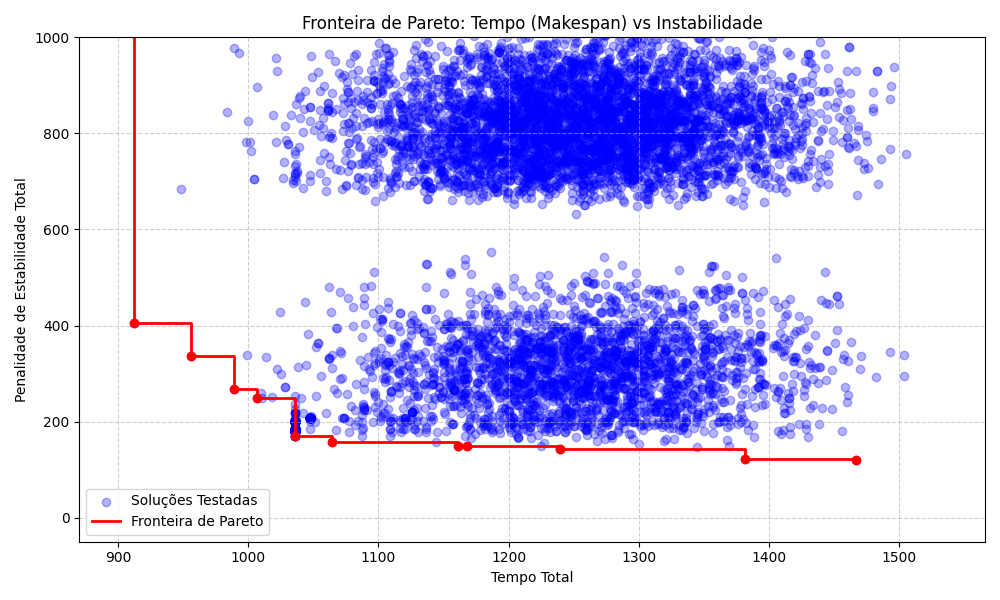
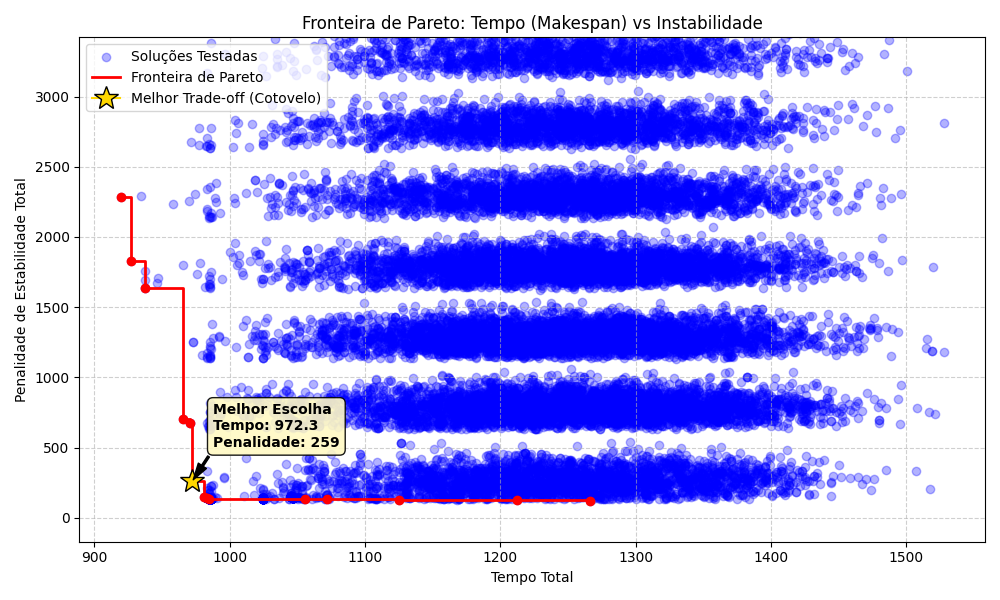
atualizando gráfico fronteira de pareto -- próximo ao ideal

diff --git a/app/visualizer.py b/app/visualizer.py
@@ -73,13 +73,37 @@ def fronteira_de_pareto(makespans, instabilidades, filename="pareto_argo.png"):
     pontos = sorted(list(zip(makespans, instabilidades)))
     pareto_front = []
     min_instabilidade = float("inf")
+    
     for m, i in pontos:
         if i < min_instabilidade:
             pareto_front.append((m, i))
             min_instabilidade = i
 
+    if not pareto_front:
+        return
+
     pareto_makespans = [p[0] for p in pareto_front]
     pareto_instabilidades = [p[1] for p in pareto_front]
+
+    # --- 1. CÁLCULO DO MELHOR PONTO (PONTO DE COTOVELO) ---
+    min_m, max_m = min(pareto_makespans), max(pareto_makespans)
+    min_i, max_i = min(pareto_instabilidades), max(pareto_instabilidades)
+
+    melhor_distancia = float("inf")
+    melhor_ponto = pareto_front[0]
+
+    for m, i in pareto_front:
+        # Normaliza os valores (de 0.0 a 1.0) para que a escala não distorça o cálculo
+        norm_m = (m - min_m) / (max_m - min_m) if max_m != min_m else 0
+        norm_i = (i - min_i) / (max_i - min_i) if max_i != min_i else 0
+        
+        # Distância Euclidiana até a origem ideal (0, 0)
+        distancia = (norm_m ** 2 + norm_i ** 2) ** 0.5
+        
+        if distancia < melhor_distancia:
+            melhor_distancia = distancia
+            melhor_ponto = (m, i)
+    # ------------------------------------------------------
 
     plt.figure(figsize=(10, 6))
 
@@ -97,11 +121,33 @@ def fronteira_de_pareto(makespans, instabilidades, filename="pareto_argo.png"):
     )
     plt.plot(pareto_makespans, pareto_instabilidades, "ro")
 
+    # --- 2. DESENHO DO MARCADOR DO MELHOR PONTO ---
+    plt.plot(
+        melhor_ponto[0], melhor_ponto[1], 
+        marker="*", color="gold", markersize=18, 
+        markeredgecolor="black", zorder=5, label="Melhor Trade-off (Cotovelo)"
+    )
+
+    # Caixa de texto com uma seta apontando para a estrela
+    plt.annotate(
+        f'Melhor Escolha\nTempo: {melhor_ponto[0]:.1f}\nPenalidade: {melhor_ponto[1]:.0f}',
+        xy=(melhor_ponto[0], melhor_ponto[1]),
+        xytext=(15, 25), # Move o texto um pouco para a direita e para cima
+        textcoords="offset points",
+        arrowprops=dict(facecolor='black', shrink=0.05, width=1.5, headwidth=7),
+        fontsize=10,
+        fontweight='bold',
+        bbox=dict(boxstyle="round,pad=0.4", fc="#fff9c4", ec="black", alpha=0.9),
+        zorder=10
+    )
+    # ----------------------------------------------
+
     plt.title("Fronteira de Pareto: Tempo (Makespan) vs Instabilidade")
     plt.xlabel("Tempo Total")
     plt.ylabel("Penalidade de Estabilidade Total")
     plt.grid(True, linestyle="--", alpha=0.6)
     plt.legend()
+    
     pareto_validos = [p for p in pareto_instabilidades if p < 50000]
 
     if pareto_validos:

diff --git a/outputs/passo_a_passo/passo_a_passo.md b/outputs/passo_a_passo/passo_a_passo.md
@@ -1,52 +1,52 @@
 <html><head><meta charset='utf-8'><style>body { font-family: 'Segoe UI', Tahoma, Geneva, Verdana, sans-serif; line-height: 1.6; color: #333; padding: 40px; }h1, h2 { border-bottom: 2px solid #1a237e; padding-bottom: 10px; }table { margin-top: 20px; }.page-break { page-break-before: always; }</style></head><body><h1 style='text-align: center; color: #1a237e;'>Relatório Passo a Passo: Operação Argo</h1><hr/><h2 style='color: #0d47a1;'>1. Log de Movimentações</h2>
-<div style='background: #f5f5f5; padding: 8px; margin: 5px 0; border-radius: 4px; color:#111;'><b>[0001.0] 🏗 Guindaste (Passo 01)</b><br/>Moveu container <span style='color: #b81466;'>Rosa</span> de Navio <b style='font-size:1.1em; color:#111; background:#e0e0e0; padding:2px 6px; border-radius:4px;'>(Y:1 X:1 Z:1)</b> para Píer <b style='font-size:1.1em; color:#111; background:#e0e0e0; padding:2px 6px; border-radius:4px;'>(Y:1 X:2 Z:1)</b> | <b style='color: green;'>📍 Destino: Sala A18</b></div>
-<div style='background: #f5f5f5; padding: 8px; margin: 5px 0; border-radius: 4px; color:#111;'><b>[0001.1] 🏗 Guindaste (Passo 02)</b><br/>Moveu container <span style='color: #b81466;'>Rosa</span> de Navio <b style='font-size:1.1em; color:#111; background:#e0e0e0; padding:2px 6px; border-radius:4px;'>(Y:2 X:2 Z:3)</b> para Píer <b style='font-size:1.1em; color:#111; background:#e0e0e0; padding:2px 6px; border-radius:4px;'>(Y:2 X:2 Z:1)</b> | <b style='color: green;'>📍 Destino: Ocean</b></div>
-<div style='border-left: 4px solid #2196F3; padding-left: 10px; margin-bottom: 10px;'><b>[0001.1] 🚛 Carrerista 1</b><br/>Saída com 2 entrega(s) para: <i>Sala A18, Ocean</i></div>
-<div style='color: #111; font-size: 0.95em;'>&nbsp;&nbsp;↳ [0001.1] Container removido do Píer: <b style='color: #111;'>(Y:1 X:2, Z:1)</b></div>
-<div style='color: #111; font-size: 0.95em;'>&nbsp;&nbsp;↳ [0001.1] Container removido do Píer: <b style='color: #111;'>(Y:2 X:2, Z:1)</b></div>
-<div style='background: #f5f5f5; padding: 8px; margin: 5px 0; border-radius: 4px; color:#111;'><b>[0003.2] 🏗 Guindaste (Passo 03)</b><br/>Moveu container <span style='color: #b8b814;'>Amarelo</span> de Navio <b style='font-size:1.1em; color:#111; background:#e0e0e0; padding:2px 6px; border-radius:4px;'>(Y:1 X:3 Z:2)</b> para Píer <b style='font-size:1.1em; color:#111; background:#e0e0e0; padding:2px 6px; border-radius:4px;'>(Y:2 X:2 Z:1)</b> | <b style='color: green;'>📍 Destino: Sala A4</b></div>
-<div style='background: #f5f5f5; padding: 8px; margin: 5px 0; border-radius: 4px; color:#111;'><b>[0004.3] 🏗 Guindaste (Passo 04)</b><br/>Moveu container <span style='color: #b8b814;'>Amarelo</span> de Navio <b style='font-size:1.1em; color:#111; background:#e0e0e0; padding:2px 6px; border-radius:4px;'>(Y:2 X:3 Z:3)</b> para Píer <b style='font-size:1.1em; color:#111; background:#e0e0e0; padding:2px 6px; border-radius:4px;'>(Y:2 X:2 Z:2)</b> | <b style='color: green;'>📍 Destino: Hub</b></div>
-<div style='border-left: 4px solid #2196F3; padding-left: 10px; margin-bottom: 10px;'><b>[0004.3] 🚛 Carrerista 2</b><br/>Saída com 2 entrega(s) para: <i>Sala A4, Hub</i></div>
-<div style='color: #111; font-size: 0.95em;'>&nbsp;&nbsp;↳ [0004.3] Container removido do Píer: <b style='color: #111;'>(Y:2 X:2, Z:1)</b></div>
-<div style='color: #111; font-size: 0.95em;'>&nbsp;&nbsp;↳ [0004.3] Container removido do Píer: <b style='color: #111;'>(Y:2 X:2, Z:2)</b></div>
-<div style='background: #f5f5f5; padding: 8px; margin: 5px 0; border-radius: 4px; color:#111;'><b>[0006.3] 🏗 Guindaste (Passo 05)</b><br/>Moveu container <span style='color: #b81466;'>Rosa</span> de Navio <b style='font-size:1.1em; color:#111; background:#e0e0e0; padding:2px 6px; border-radius:4px;'>(Y:2 X:2 Z:2)</b> para Píer <b style='font-size:1.1em; color:#111; background:#e0e0e0; padding:2px 6px; border-radius:4px;'>(Y:1 X:1 Z:1)</b> | <b style='color: green;'>📍 Destino: FemtonLab</b></div>
-<div style='background: #f5f5f5; padding: 8px; margin: 5px 0; border-radius: 4px; color:#111;'><b>[0007.5] 🏗 Guindaste (Passo 06)</b><br/>Moveu container <span style='color: #b81466;'>Rosa</span> de Navio <b style='font-size:1.1em; color:#111; background:#e0e0e0; padding:2px 6px; border-radius:4px;'>(Y:1 X:3 Z:1)</b> para Píer <b style='font-size:1.1em; color:#111; background:#e0e0e0; padding:2px 6px; border-radius:4px;'>(Y:1 X:2 Z:1)</b> | <b style='color: green;'>📍 Destino: Sala C18</b></div>
-<div style='border-left: 4px solid #2196F3; padding-left: 10px; margin-bottom: 10px;'><b>[0233.8] 🚛 Carrerista 3</b><br/>Saída com 2 entrega(s) para: <i>FemtonLab, Sala C18</i></div>
-<div style='background: #f5f5f5; padding: 8px; margin: 5px 0; border-radius: 4px; color:#111;'><b>[0009.6] 🏗 Guindaste (Passo 07)</b><br/>Moveu container <span style='color: #b81466;'>Rosa</span> de Navio <b style='font-size:1.1em; color:#111; background:#e0e0e0; padding:2px 6px; border-radius:4px;'>(Y:2 X:2 Z:1)</b> para Píer <b style='font-size:1.1em; color:#111; background:#e0e0e0; padding:2px 6px; border-radius:4px;'>(Y:1 X:1 Z:2)</b> | <b style='color: green;'>📍 Destino: Urutau</b></div>
-<div style='color: #111; font-size: 0.95em;'>&nbsp;&nbsp;↳ [0233.8] Container removido do Píer: <b style='color: #111;'>(Y:1 X:1, Z:1)</b></div>
-<div style='color: #111; font-size: 0.95em;'>&nbsp;&nbsp;↳ [0233.8] Container removido do Píer: <b style='color: #111;'>(Y:1 X:2, Z:1)</b></div>
-<div style='background: #f5f5f5; padding: 8px; margin: 5px 0; border-radius: 4px; color:#111;'><b>[0233.8] 🏗 Guindaste (Passo 08)</b><br/>Moveu container <span style='color: #b8b814;'>Amarelo</span> de Navio <b style='font-size:1.1em; color:#111; background:#e0e0e0; padding:2px 6px; border-radius:4px;'>(Y:3 X:2 Z:2)</b> para Píer <b style='font-size:1.1em; color:#111; background:#e0e0e0; padding:2px 6px; border-radius:4px;'>(Y:1 X:1 Z:1)</b> | <b style='color: green;'>📍 Destino: Urutau</b></div>
-<div style='border-left: 4px solid #2196F3; padding-left: 10px; margin-bottom: 10px;'><b>[0392.6] 🚛 Carrerista 1</b><br/>Saída com 2 entrega(s) para: <i>Urutau, Urutau</i></div>
-<div style='background: #f5f5f5; padding: 8px; margin: 5px 0; border-radius: 4px; color:#111;'><b>[0236.0] 🏗 Guindaste (Passo 09)</b><br/>Moveu container <span style='color: #b8b814;'>Amarelo</span> de Navio <b style='font-size:1.1em; color:#111; background:#e0e0e0; padding:2px 6px; border-radius:4px;'>(Y:3 X:1 Z:2)</b> para Píer <b style='font-size:1.1em; color:#111; background:#e0e0e0; padding:2px 6px; border-radius:4px;'>(Y:2 X:2 Z:1)</b> | <b style='color: green;'>📍 Destino: Quadra</b></div>
-<div style='background: #f5f5f5; padding: 8px; margin: 5px 0; border-radius: 4px; color:#111;'><b>[0238.1] 🏗 Guindaste (Passo 10)</b><br/>Moveu container <span style='color: #b8b814;'>Amarelo</span> de Navio <b style='font-size:1.1em; color:#111; background:#e0e0e0; padding:2px 6px; border-radius:4px;'>(Y:3 X:3 Z:3)</b> para Píer <b style='font-size:1.1em; color:#111; background:#e0e0e0; padding:2px 6px; border-radius:4px;'>(Y:2 X:2 Z:2)</b> | <b style='color: green;'>📍 Destino: Ocean</b></div>
-<div style='border-left: 4px solid #2196F3; padding-left: 10px; margin-bottom: 10px;'><b>[0604.6] 🚛 Carrerista 2</b><br/>Saída com 2 entrega(s) para: <i>Quadra, Ocean</i></div>
-<div style='color: #111; font-size: 0.95em;'>&nbsp;&nbsp;↳ [0392.6] Container removido do Píer: <b style='color: #111;'>(Y:1 X:1, Z:2)</b></div>
-<div style='color: #111; font-size: 0.95em;'>&nbsp;&nbsp;↳ [0392.6] Container removido do Píer: <b style='color: #111;'>(Y:1 X:1, Z:1)</b></div>
-<div style='color: #111; font-size: 0.95em;'>&nbsp;&nbsp;↳ [0604.6] Container removido do Píer: <b style='color: #111;'>(Y:2 X:2, Z:1)</b></div>
-<div style='color: #111; font-size: 0.95em;'>&nbsp;&nbsp;↳ [0604.6] Container removido do Píer: <b style='color: #111;'>(Y:2 X:2, Z:2)</b></div>
-<div style='background: #f5f5f5; padding: 8px; margin: 5px 0; border-radius: 4px; color:#111;'><b>[0604.6] 🏗 Guindaste (Passo 11)</b><br/>Moveu container <span style='color: #b8b814;'>Amarelo</span> de Navio <b style='font-size:1.1em; color:#111; background:#e0e0e0; padding:2px 6px; border-radius:4px;'>(Y:2 X:4 Z:2)</b> para Píer <b style='font-size:1.1em; color:#111; background:#e0e0e0; padding:2px 6px; border-radius:4px;'>(Y:2 X:2 Z:1)</b> | <b style='color: green;'>📍 Destino: Baja</b></div>
-<div style='background: #f5f5f5; padding: 8px; margin: 5px 0; border-radius: 4px; color:#111;'><b>[0605.7] 🏗 Guindaste (Passo 12)</b><br/>Moveu container <span style='color: #b81466;'>Rosa</span> de Navio <b style='font-size:1.1em; color:#111; background:#e0e0e0; padding:2px 6px; border-radius:4px;'>(Y:3 X:2 Z:1)</b> para Píer <b style='font-size:1.1em; color:#111; background:#e0e0e0; padding:2px 6px; border-radius:4px;'>(Y:2 X:2 Z:2)</b> | <b style='color: green;'>📍 Destino: Baja</b></div>
-<div style='border-left: 4px solid #2196F3; padding-left: 10px; margin-bottom: 10px;'><b>[0656.5] 🚛 Carrerista 3</b><br/>Saída com 2 entrega(s) para: <i>Baja, Baja</i></div>
-<div style='color: #111; font-size: 0.95em;'>&nbsp;&nbsp;↳ [0656.5] Container removido do Píer: <b style='color: #111;'>(Y:2 X:2, Z:1)</b></div>
-<div style='color: #111; font-size: 0.95em;'>&nbsp;&nbsp;↳ [0656.5] Container removido do Píer: <b style='color: #111;'>(Y:2 X:2, Z:2)</b></div>
-<div style='background: #f5f5f5; padding: 8px; margin: 5px 0; border-radius: 4px; color:#111;'><b>[0656.5] 🏗 Guindaste (Passo 13)</b><br/>Moveu container <span style='color: #b81466;'>Rosa</span> de Navio <b style='font-size:1.1em; color:#111; background:#e0e0e0; padding:2px 6px; border-radius:4px;'>(Y:3 X:1 Z:1)</b> para Píer <b style='font-size:1.1em; color:#111; background:#e0e0e0; padding:2px 6px; border-radius:4px;'>(Y:2 X:2 Z:1)</b> | <b style='color: green;'>📍 Destino: Callidus</b></div>
-<div style='background: #f5f5f5; padding: 8px; margin: 5px 0; border-radius: 4px; color:#111;'><b>[0660.6] 🏗 Guindaste (Passo 14)</b><br/>Moveu container <span style='color: #b8b814;'>Amarelo</span> de Navio <b style='font-size:1.1em; color:#111; background:#e0e0e0; padding:2px 6px; border-radius:4px;'>(Y:2 X:4 Z:1)</b> para Píer <b style='font-size:1.1em; color:#111; background:#e0e0e0; padding:2px 6px; border-radius:4px;'>(Y:1 X:1 Z:1)</b> | <b style='color: red;'>📦 Estoque</b></div>
-<div style='background: #f5f5f5; padding: 8px; margin: 5px 0; border-radius: 4px; color:#111;'><b>[0665.1] 🏗 Guindaste (Passo 15)</b><br/>Moveu container <span style='color: #b8b814;'>Amarelo</span> de Navio <b style='font-size:1.1em; color:#111; background:#e0e0e0; padding:2px 6px; border-radius:4px;'>(Y:4 X:4 Z:2)</b> para Píer <b style='font-size:1.1em; color:#111; background:#e0e0e0; padding:2px 6px; border-radius:4px;'>(Y:2 X:2 Z:2)</b> | <b style='color: red;'>📦 Estoque</b></div>
-<div style='background: #f5f5f5; padding: 8px; margin: 5px 0; border-radius: 4px; color:#111;'><b>[0671.4] 🏗 Guindaste (Passo 16)</b><br/>Moveu container <span style='color: #b81466;'>Rosa</span> de Navio <b style='font-size:1.1em; color:#111; background:#e0e0e0; padding:2px 6px; border-radius:4px;'>(Y:4 X:4 Z:1)</b> para Píer <b style='font-size:1.1em; color:#111; background:#e0e0e0; padding:2px 6px; border-radius:4px;'>(Y:1 X:1 Z:2)</b> | <b style='color: green;'>📍 Destino: Hub</b></div>
-<div style='border-left: 4px solid #2196F3; padding-left: 10px; margin-bottom: 10px;'><b>[0832.7] 🚛 Carrerista 1</b><br/>Saída com 2 entrega(s) para: <i>Callidus, Hub</i></div>
-<div style='background: #f5f5f5; padding: 8px; margin: 5px 0; border-radius: 4px; color:#111;'><b>[0674.7] 🏗 Guindaste (Passo 17)</b><br/>Moveu container <span style='color: #b8b814;'>Amarelo</span> de Navio <b style='font-size:1.1em; color:#111; background:#e0e0e0; padding:2px 6px; border-radius:4px;'>(Y:3 X:3 Z:2)</b> para Píer <b style='font-size:1.1em; color:#111; background:#e0e0e0; padding:2px 6px; border-radius:4px;'>(Y:1 X:2 Z:1)</b> | <b style='color: red;'>📦 Estoque</b></div>
-<div style='color: #111; font-size: 0.95em;'>&nbsp;&nbsp;↳ [0832.7] Container removido do Píer: <b style='color: #111;'>(Y:2 X:2, Z:1)</b></div>
-<div style='color: #111; font-size: 0.95em;'>&nbsp;&nbsp;↳ [0832.7] Container removido do Píer: <b style='color: #111;'>(Y:1 X:1, Z:2)</b></div>
-<div style='background: #f5f5f5; padding: 8px; margin: 5px 0; border-radius: 4px; color:#111;'><b>[0832.7] 🏗 Guindaste (Passo 18)</b><br/>Moveu container <span style='color: #b8b814;'>Amarelo</span> de Navio <b style='font-size:1.1em; color:#111; background:#e0e0e0; padding:2px 6px; border-radius:4px;'>(Y:2 X:3 Z:2)</b> para Píer <b style='font-size:1.1em; color:#111; background:#e0e0e0; padding:2px 6px; border-radius:4px;'>(Y:1 X:1 Z:2)</b> | <b style='color: red;'>📦 Estoque</b></div>
-<div style='background: #f5f5f5; padding: 8px; margin: 5px 0; border-radius: 4px; color:#111;'><b>[0833.8] 🏗 Guindaste (Passo 19)</b><br/>Moveu container <span style='color: #b81466;'>Rosa</span> de Navio <b style='font-size:1.1em; color:#111; background:#e0e0e0; padding:2px 6px; border-radius:4px;'>(Y:2 X:1 Z:2)</b> para Píer <b style='font-size:1.1em; color:#111; background:#e0e0e0; padding:2px 6px; border-radius:4px;'>(Y:2 X:2 Z:1)</b> | <b style='color: green;'>📍 Destino: Escadaria entrada</b></div>
-<div style='background: #f5f5f5; padding: 8px; margin: 5px 0; border-radius: 4px; color:#111;'><b>[0835.9] 🏗 Guindaste (Passo 20)</b><br/>Moveu container <span style='color: #b81466;'>Rosa</span> de Navio <b style='font-size:1.1em; color:#111; background:#e0e0e0; padding:2px 6px; border-radius:4px;'>(Y:2 X:3 Z:1)</b> para Píer <b style='font-size:1.1em; color:#111; background:#e0e0e0; padding:2px 6px; border-radius:4px;'>(Y:2 X:1 Z:1)</b> | <b style='color: green;'>📍 Destino: Escadaria biblioteca</b></div>
-<div style='border-left: 4px solid #2196F3; padding-left: 10px; margin-bottom: 10px;'><b>[0850.2] 🚛 Carrerista 2</b><br/>Saída com 2 entrega(s) para: <i>Escadaria entrada, Escadaria biblioteca</i></div>
-<div style='background: #f5f5f5; padding: 8px; margin: 5px 0; border-radius: 4px; color:#111;'><b>[0839.1] 🏗 Guindaste (Passo 21)</b><br/>Moveu container <span style='color: #b8b814;'>Amarelo</span> de Navio <b style='font-size:1.1em; color:#111; background:#e0e0e0; padding:2px 6px; border-radius:4px;'>(Y:3 X:3 Z:1)</b> para Píer <b style='font-size:1.1em; color:#111; background:#e0e0e0; padding:2px 6px; border-radius:4px;'>(Y:2 X:1 Z:2)</b> | <b style='color: red;'>📦 Estoque</b></div>
-<div style='color: #111; font-size: 0.95em;'>&nbsp;&nbsp;↳ [0850.2] Container removido do Píer: <b style='color: #111;'>(Y:2 X:2, Z:1)</b></div>
-<div style='color: #111; font-size: 0.95em;'>&nbsp;&nbsp;↳ [0850.2] Container removido do Píer: <b style='color: #111;'>(Y:2 X:1, Z:1)</b></div>
-<div style='background: #f5f5f5; padding: 8px; margin: 5px 0; border-radius: 4px; color:#111;'><b>[0850.2] 🏗 Guindaste (Passo 22)</b><br/>Moveu container <span style='color: #b8b814;'>Amarelo</span> de Navio <b style='font-size:1.1em; color:#111; background:#e0e0e0; padding:2px 6px; border-radius:4px;'>(Y:3 X:4 Z:2)</b> para Píer <b style='font-size:1.1em; color:#111; background:#e0e0e0; padding:2px 6px; border-radius:4px;'>(Y:2 X:2 Z:1)</b> | <b style='color: red;'>📦 Estoque</b></div>
-<div style='background: #f5f5f5; padding: 8px; margin: 5px 0; border-radius: 4px; color:#111;'><b>[0852.3] 🏗 Guindaste (Passo 23)</b><br/>Moveu container <span style='color: #b81466;'>Rosa</span> de Navio <b style='font-size:1.1em; color:#111; background:#e0e0e0; padding:2px 6px; border-radius:4px;'>(Y:2 X:1 Z:1)</b> para Píer <b style='font-size:1.1em; color:#111; background:#e0e0e0; padding:2px 6px; border-radius:4px;'>(Y:1 X:2 Z:2)</b> | <b style='color: red;'>📦 Estoque</b></div>
-<div style='background: #f5f5f5; padding: 8px; margin: 5px 0; border-radius: 4px; color:#111;'><b>[0856.6] 🏗 Guindaste (Passo 24)</b><br/>Moveu container <span style='color: #b81466;'>Rosa</span> de Navio <b style='font-size:1.1em; color:#111; background:#e0e0e0; padding:2px 6px; border-radius:4px;'>(Y:3 X:4 Z:1)</b> para Píer <b style='font-size:1.1em; color:#111; background:#e0e0e0; padding:2px 6px; border-radius:4px;'>(Y:2 X:1 Z:1)</b> | <b style='color: red;'>📦 Estoque</b></div>
+<div style='background: #f5f5f5; padding: 8px; margin: 5px 0; border-radius: 4px; color:#111;'><b>[0000.2] 🏗 Guindaste (Passo 01)</b><br/>Moveu container <span style='color: #b81466;'>Rosa</span> de Navio <b style='font-size:1.1em; color:#111; background:#e0e0e0; padding:2px 6px; border-radius:4px;'>(Y:2 X:2 Z:3)</b> para Píer <b style='font-size:1.1em; color:#111; background:#e0e0e0; padding:2px 6px; border-radius:4px;'>(Y:2 X:2 Z:1)</b> | <b style='color: green;'>📍 Destino: Sala C18</b></div>
+<div style='background: #f5f5f5; padding: 8px; margin: 5px 0; border-radius: 4px; color:#111;'><b>[0001.3] 🏗 Guindaste (Passo 02)</b><br/>Moveu container <span style='color: #b8b814;'>Amarelo</span> de Navio <b style='font-size:1.1em; color:#111; background:#e0e0e0; padding:2px 6px; border-radius:4px;'>(Y:1 X:3 Z:2)</b> para Píer <b style='font-size:1.1em; color:#111; background:#e0e0e0; padding:2px 6px; border-radius:4px;'>(Y:1 X:2 Z:1)</b> | <b style='color: green;'>📍 Destino: Quadra</b></div>
+<div style='border-left: 4px solid #2196F3; padding-left: 10px; margin-bottom: 10px;'><b>[0001.3] 🚛 Carrerista 1</b><br/>Saída com 2 entrega(s) para: <i>Sala C18, Quadra</i></div>
+<div style='color: #111; font-size: 0.95em;'>&nbsp;&nbsp;↳ [0001.3] Container removido do Píer: <b style='color: #111;'>(Y:2 X:2, Z:1)</b></div>
+<div style='color: #111; font-size: 0.95em;'>&nbsp;&nbsp;↳ [0001.3] Container removido do Píer: <b style='color: #111;'>(Y:1 X:2, Z:1)</b></div>
+<div style='background: #f5f5f5; padding: 8px; margin: 5px 0; border-radius: 4px; color:#111;'><b>[0002.5] 🏗 Guindaste (Passo 03)</b><br/>Moveu container <span style='color: #b81466;'>Rosa</span> de Navio <b style='font-size:1.1em; color:#111; background:#e0e0e0; padding:2px 6px; border-radius:4px;'>(Y:2 X:1 Z:2)</b> para Píer <b style='font-size:1.1em; color:#111; background:#e0e0e0; padding:2px 6px; border-radius:4px;'>(Y:1 X:1 Z:1)</b> | <b style='color: green;'>📍 Destino: Escadaria biblioteca</b></div>
+<div style='background: #f5f5f5; padding: 8px; margin: 5px 0; border-radius: 4px; color:#111;'><b>[0003.6] 🏗 Guindaste (Passo 04)</b><br/>Moveu container <span style='color: #b81466;'>Rosa</span> de Navio <b style='font-size:1.1em; color:#111; background:#e0e0e0; padding:2px 6px; border-radius:4px;'>(Y:2 X:2 Z:2)</b> para Píer <b style='font-size:1.1em; color:#111; background:#e0e0e0; padding:2px 6px; border-radius:4px;'>(Y:2 X:1 Z:1)</b> | <b style='color: green;'>📍 Destino: Ocean</b></div>
+<div style='border-left: 4px solid #2196F3; padding-left: 10px; margin-bottom: 10px;'><b>[0003.6] 🚛 Carrerista 2</b><br/>Saída com 2 entrega(s) para: <i>Escadaria biblioteca, Ocean</i></div>
+<div style='color: #111; font-size: 0.95em;'>&nbsp;&nbsp;↳ [0003.6] Container removido do Píer: <b style='color: #111;'>(Y:1 X:1, Z:1)</b></div>
+<div style='color: #111; font-size: 0.95em;'>&nbsp;&nbsp;↳ [0003.6] Container removido do Píer: <b style='color: #111;'>(Y:2 X:1, Z:1)</b></div>
+<div style='background: #f5f5f5; padding: 8px; margin: 5px 0; border-radius: 4px; color:#111;'><b>[0006.8] 🏗 Guindaste (Passo 05)</b><br/>Moveu container <span style='color: #b8b814;'>Amarelo</span> de Navio <b style='font-size:1.1em; color:#111; background:#e0e0e0; padding:2px 6px; border-radius:4px;'>(Y:2 X:3 Z:3)</b> para Píer <b style='font-size:1.1em; color:#111; background:#e0e0e0; padding:2px 6px; border-radius:4px;'>(Y:1 X:1 Z:1)</b> | <b style='color: green;'>📍 Destino: Baja</b></div>
+<div style='background: #f5f5f5; padding: 8px; margin: 5px 0; border-radius: 4px; color:#111;'><b>[0007.0] 🏗 Guindaste (Passo 06)</b><br/>Moveu container <span style='color: #b81466;'>Rosa</span> de Navio <b style='font-size:1.1em; color:#111; background:#e0e0e0; padding:2px 6px; border-radius:4px;'>(Y:2 X:2 Z:1)</b> para Píer <b style='font-size:1.1em; color:#111; background:#e0e0e0; padding:2px 6px; border-radius:4px;'>(Y:2 X:2 Z:1)</b> | <b style='color: green;'>📍 Destino: Baja</b></div>
+<div style='border-left: 4px solid #2196F3; padding-left: 10px; margin-bottom: 10px;'><b>[0196.0] 🚛 Carrerista 3</b><br/>Saída com 2 entrega(s) para: <i>Baja, Baja</i></div>
+<div style='background: #f5f5f5; padding: 8px; margin: 5px 0; border-radius: 4px; color:#111;'><b>[0010.1] 🏗 Guindaste (Passo 07)</b><br/>Moveu container <span style='color: #b8b814;'>Amarelo</span> de Navio <b style='font-size:1.1em; color:#111; background:#e0e0e0; padding:2px 6px; border-radius:4px;'>(Y:2 X:4 Z:2)</b> para Píer <b style='font-size:1.1em; color:#111; background:#e0e0e0; padding:2px 6px; border-radius:4px;'>(Y:2 X:1 Z:1)</b> | <b style='color: green;'>📍 Destino: Sala A4</b></div>
+<div style='background: #f5f5f5; padding: 8px; margin: 5px 0; border-radius: 4px; color:#111;'><b>[0013.3] 🏗 Guindaste (Passo 08)</b><br/>Moveu container <span style='color: #b8b814;'>Amarelo</span> de Navio <b style='font-size:1.1em; color:#111; background:#e0e0e0; padding:2px 6px; border-radius:4px;'>(Y:3 X:2 Z:2)</b> para Píer <b style='font-size:1.1em; color:#111; background:#e0e0e0; padding:2px 6px; border-radius:4px;'>(Y:1 X:1 Z:2)</b> | <b style='color: green;'>📍 Destino: Ocean</b></div>
+<div style='border-left: 4px solid #2196F3; padding-left: 10px; margin-bottom: 10px;'><b>[0252.1] 🚛 Carrerista 2</b><br/>Saída com 2 entrega(s) para: <i>Sala A4, Ocean</i></div>
+<div style='color: #111; font-size: 0.95em;'>&nbsp;&nbsp;↳ [0196.0] Container removido do Píer: <b style='color: #111;'>(Y:1 X:1, Z:1)</b></div>
+<div style='color: #111; font-size: 0.95em;'>&nbsp;&nbsp;↳ [0196.0] Container removido do Píer: <b style='color: #111;'>(Y:2 X:2, Z:1)</b></div>
+<div style='background: #f5f5f5; padding: 8px; margin: 5px 0; border-radius: 4px; color:#111;'><b>[0196.0] 🏗 Guindaste (Passo 09)</b><br/>Moveu container <span style='color: #b8b814;'>Amarelo</span> de Navio <b style='font-size:1.1em; color:#111; background:#e0e0e0; padding:2px 6px; border-radius:4px;'>(Y:2 X:3 Z:2)</b> para Píer <b style='font-size:1.1em; color:#111; background:#e0e0e0; padding:2px 6px; border-radius:4px;'>(Y:1 X:1 Z:1)</b> | <b style='color: green;'>📍 Destino: Hub</b></div>
+<div style='color: #111; font-size: 0.95em;'>&nbsp;&nbsp;↳ [0252.1] Container removido do Píer: <b style='color: #111;'>(Y:2 X:1, Z:1)</b></div>
+<div style='color: #111; font-size: 0.95em;'>&nbsp;&nbsp;↳ [0252.1] Container removido do Píer: <b style='color: #111;'>(Y:1 X:1, Z:2)</b></div>
+<div style='background: #f5f5f5; padding: 8px; margin: 5px 0; border-radius: 4px; color:#111;'><b>[0252.1] 🏗 Guindaste (Passo 10)</b><br/>Moveu container <span style='color: #b81466;'>Rosa</span> de Navio <b style='font-size:1.1em; color:#111; background:#e0e0e0; padding:2px 6px; border-radius:4px;'>(Y:2 X:3 Z:1)</b> para Píer <b style='font-size:1.1em; color:#111; background:#e0e0e0; padding:2px 6px; border-radius:4px;'>(Y:1 X:1 Z:2)</b> | <b style='color: green;'>📍 Destino: Callidus</b></div>
+<div style='border-left: 4px solid #2196F3; padding-left: 10px; margin-bottom: 10px;'><b>[0389.8] 🚛 Carrerista 1</b><br/>Saída com 2 entrega(s) para: <i>Hub, Callidus</i></div>
+<div style='background: #f5f5f5; padding: 8px; margin: 5px 0; border-radius: 4px; color:#111;'><b>[0255.4] 🏗 Guindaste (Passo 11)</b><br/>Moveu container <span style='color: #b8b814;'>Amarelo</span> de Navio <b style='font-size:1.1em; color:#111; background:#e0e0e0; padding:2px 6px; border-radius:4px;'>(Y:2 X:4 Z:1)</b> para Píer <b style='font-size:1.1em; color:#111; background:#e0e0e0; padding:2px 6px; border-radius:4px;'>(Y:2 X:1 Z:1)</b> | <b style='color: green;'>📍 Destino: Urutau</b></div>
+<div style='background: #f5f5f5; padding: 8px; margin: 5px 0; border-radius: 4px; color:#111;'><b>[0256.6] 🏗 Guindaste (Passo 12)</b><br/>Moveu container <span style='color: #b81466;'>Rosa</span> de Navio <b style='font-size:1.1em; color:#111; background:#e0e0e0; padding:2px 6px; border-radius:4px;'>(Y:3 X:2 Z:1)</b> para Píer <b style='font-size:1.1em; color:#111; background:#e0e0e0; padding:2px 6px; border-radius:4px;'>(Y:2 X:2 Z:1)</b> | <b style='color: green;'>📍 Destino: Urutau</b></div>
+<div style='border-left: 4px solid #2196F3; padding-left: 10px; margin-bottom: 10px;'><b>[0483.0] 🚛 Carrerista 3</b><br/>Saída com 2 entrega(s) para: <i>Urutau, Urutau</i></div>
+<div style='background: #f5f5f5; padding: 8px; margin: 5px 0; border-radius: 4px; color:#111;'><b>[0258.7] 🏗 Guindaste (Passo 13)</b><br/>Moveu container <span style='color: #b8b814;'>Amarelo</span> de Navio <b style='font-size:1.1em; color:#111; background:#e0e0e0; padding:2px 6px; border-radius:4px;'>(Y:3 X:1 Z:2)</b> para Píer <b style='font-size:1.1em; color:#111; background:#e0e0e0; padding:2px 6px; border-radius:4px;'>(Y:2 X:2 Z:2)</b> | <b style='color: red;'>📦 Estoque</b></div>
+<div style='background: #f5f5f5; padding: 8px; margin: 5px 0; border-radius: 4px; color:#111;'><b>[0259.9] 🏗 Guindaste (Passo 14)</b><br/>Moveu container <span style='color: #b81466;'>Rosa</span> de Navio <b style='font-size:1.1em; color:#111; background:#e0e0e0; padding:2px 6px; border-radius:4px;'>(Y:3 X:1 Z:1)</b> para Píer <b style='font-size:1.1em; color:#111; background:#e0e0e0; padding:2px 6px; border-radius:4px;'>(Y:2 X:1 Z:2)</b> | <b style='color: green;'>📍 Destino: Escadaria entrada</b></div>
+<div style='color: #111; font-size: 0.95em;'>&nbsp;&nbsp;↳ [0389.8] Container removido do Píer: <b style='color: #111;'>(Y:1 X:1, Z:1)</b></div>
+<div style='color: #111; font-size: 0.95em;'>&nbsp;&nbsp;↳ [0389.8] Container removido do Píer: <b style='color: #111;'>(Y:1 X:1, Z:2)</b></div>
+<div style='color: #111; font-size: 0.95em;'>&nbsp;&nbsp;↳ [0483.0] Container removido do Píer: <b style='color: #111;'>(Y:2 X:1, Z:1)</b></div>
+<div style='color: #111; font-size: 0.95em;'>&nbsp;&nbsp;↳ [0483.0] Container removido do Píer: <b style='color: #111;'>(Y:2 X:2, Z:1)</b></div>
+<div style='background: #f5f5f5; padding: 8px; margin: 5px 0; border-radius: 4px; color:#111;'><b>[0483.0] 🏗 Guindaste (Passo 15)</b><br/>Moveu container <span style='color: #b81466;'>Rosa</span> de Navio <b style='font-size:1.1em; color:#111; background:#e0e0e0; padding:2px 6px; border-radius:4px;'>(Y:1 X:3 Z:1)</b> para Píer <b style='font-size:1.1em; color:#111; background:#e0e0e0; padding:2px 6px; border-radius:4px;'>(Y:2 X:1 Z:1)</b> | <b style='color: green;'>📍 Destino: Hub</b></div>
+<div style='border-left: 4px solid #2196F3; padding-left: 10px; margin-bottom: 10px;'><b>[0746.9] 🚛 Carrerista 2</b><br/>Saída com 2 entrega(s) para: <i>Escadaria entrada, Hub</i></div>
+<div style='background: #f5f5f5; padding: 8px; margin: 5px 0; border-radius: 4px; color:#111;'><b>[0489.4] 🏗 Guindaste (Passo 16)</b><br/>Moveu container <span style='color: #b8b814;'>Amarelo</span> de Navio <b style='font-size:1.1em; color:#111; background:#e0e0e0; padding:2px 6px; border-radius:4px;'>(Y:4 X:4 Z:2)</b> para Píer <b style='font-size:1.1em; color:#111; background:#e0e0e0; padding:2px 6px; border-radius:4px;'>(Y:1 X:1 Z:1)</b> | <b style='color: red;'>📦 Estoque</b></div>
+<div style='background: #f5f5f5; padding: 8px; margin: 5px 0; border-radius: 4px; color:#111;'><b>[0493.9] 🏗 Guindaste (Passo 17)</b><br/>Moveu container <span style='color: #b81466;'>Rosa</span> de Navio <b style='font-size:1.1em; color:#111; background:#e0e0e0; padding:2px 6px; border-radius:4px;'>(Y:4 X:4 Z:1)</b> para Píer <b style='font-size:1.1em; color:#111; background:#e0e0e0; padding:2px 6px; border-radius:4px;'>(Y:2 X:2 Z:1)</b> | <b style='color: green;'>📍 Destino: Sala A18</b></div>
+<div style='color: #111; font-size: 0.95em;'>&nbsp;&nbsp;↳ [0746.9] Container removido do Píer: <b style='color: #111;'>(Y:2 X:1, Z:2)</b></div>
+<div style='color: #111; font-size: 0.95em;'>&nbsp;&nbsp;↳ [0746.9] Container removido do Píer: <b style='color: #111;'>(Y:2 X:1, Z:1)</b></div>
+<div style='background: #f5f5f5; padding: 8px; margin: 5px 0; border-radius: 4px; color:#111;'><b>[0746.9] 🏗 Guindaste (Passo 18)</b><br/>Moveu container <span style='color: #b8b814;'>Amarelo</span> de Navio <b style='font-size:1.1em; color:#111; background:#e0e0e0; padding:2px 6px; border-radius:4px;'>(Y:3 X:3 Z:3)</b> para Píer <b style='font-size:1.1em; color:#111; background:#e0e0e0; padding:2px 6px; border-radius:4px;'>(Y:2 X:1 Z:1)</b> | <b style='color: red;'>📦 Estoque</b></div>
+<div style='background: #f5f5f5; padding: 8px; margin: 5px 0; border-radius: 4px; color:#111;'><b>[0747.9] 🏗 Guindaste (Passo 19)</b><br/>Moveu container <span style='color: #b81466;'>Rosa</span> de Navio <b style='font-size:1.1em; color:#111; background:#e0e0e0; padding:2px 6px; border-radius:4px;'>(Y:2 X:1 Z:1)</b> para Píer <b style='font-size:1.1em; color:#111; background:#e0e0e0; padding:2px 6px; border-radius:4px;'>(Y:1 X:1 Z:2)</b> | <b style='color: green;'>📍 Destino: FemtonLab</b></div>
+<div style='border-left: 4px solid #2196F3; padding-left: 10px; margin-bottom: 10px;'><b>[0767.9] 🚛 Carrerista 3</b><br/>Saída com 2 entrega(s) para: <i>Sala A18, FemtonLab</i></div>
+<div style='color: #111; font-size: 0.95em;'>&nbsp;&nbsp;↳ [0767.9] Container removido do Píer: <b style='color: #111;'>(Y:2 X:2, Z:1)</b></div>
+<div style='color: #111; font-size: 0.95em;'>&nbsp;&nbsp;↳ [0767.9] Container removido do Píer: <b style='color: #111;'>(Y:1 X:1, Z:2)</b></div>
+<div style='background: #f5f5f5; padding: 8px; margin: 5px 0; border-radius: 4px; color:#111;'><b>[0767.9] 🏗 Guindaste (Passo 20)</b><br/>Moveu container <span style='color: #b8b814;'>Amarelo</span> de Navio <b style='font-size:1.1em; color:#111; background:#e0e0e0; padding:2px 6px; border-radius:4px;'>(Y:3 X:3 Z:2)</b> para Píer <b style='font-size:1.1em; color:#111; background:#e0e0e0; padding:2px 6px; border-radius:4px;'>(Y:2 X:2 Z:1)</b> | <b style='color: red;'>📦 Estoque</b></div>
+<div style='background: #f5f5f5; padding: 8px; margin: 5px 0; border-radius: 4px; color:#111;'><b>[0772.1] 🏗 Guindaste (Passo 21)</b><br/>Moveu container <span style='color: #b8b814;'>Amarelo</span> de Navio <b style='font-size:1.1em; color:#111; background:#e0e0e0; padding:2px 6px; border-radius:4px;'>(Y:3 X:4 Z:2)</b> para Píer <b style='font-size:1.1em; color:#111; background:#e0e0e0; padding:2px 6px; border-radius:4px;'>(Y:1 X:2 Z:1)</b> | <b style='color: red;'>📦 Estoque</b></div>
+<div style='background: #f5f5f5; padding: 8px; margin: 5px 0; border-radius: 4px; color:#111;'><b>[0773.2] 🏗 Guindaste (Passo 22)</b><br/>Moveu container <span style='color: #b81466;'>Rosa</span> de Navio <b style='font-size:1.1em; color:#111; background:#e0e0e0; padding:2px 6px; border-radius:4px;'>(Y:1 X:1 Z:1)</b> para Píer <b style='font-size:1.1em; color:#111; background:#e0e0e0; padding:2px 6px; border-radius:4px;'>(Y:2 X:1 Z:2)</b> | <b style='color: red;'>📦 Estoque</b></div>
+<div style='background: #f5f5f5; padding: 8px; margin: 5px 0; border-radius: 4px; color:#111;'><b>[0778.5] 🏗 Guindaste (Passo 23)</b><br/>Moveu container <span style='color: #b81466;'>Rosa</span> de Navio <b style='font-size:1.1em; color:#111; background:#e0e0e0; padding:2px 6px; border-radius:4px;'>(Y:3 X:4 Z:1)</b> para Píer <b style='font-size:1.1em; color:#111; background:#e0e0e0; padding:2px 6px; border-radius:4px;'>(Y:1 X:1 Z:2)</b> | <b style='color: red;'>📦 Estoque</b></div>
+<div style='background: #f5f5f5; padding: 8px; margin: 5px 0; border-radius: 4px; color:#111;'><b>[0781.9] 🏗 Guindaste (Passo 24)</b><br/>Moveu container <span style='color: #b8b814;'>Amarelo</span> de Navio <b style='font-size:1.1em; color:#111; background:#e0e0e0; padding:2px 6px; border-radius:4px;'>(Y:3 X:3 Z:1)</b> para Píer <b style='font-size:1.1em; color:#111; background:#e0e0e0; padding:2px 6px; border-radius:4px;'>(Y:1 X:2 Z:2)</b> | <b style='color: red;'>📦 Estoque</b></div>
 
 <div style='margin-top: 30px; padding: 20px; border: 2px solid #1a237e; border-radius: 8px;'>
     <h2 style='color: #1a237e; margin-top: 0;'>2. Resumo da Solução Otimizada</h2>
@@ -57,7 +57,7 @@
         </tr>
         <tr>
             <td style='padding: 10px; border-bottom: 1px solid #eee;'>Makespan Total</td>
-            <td style='padding: 10px; border-bottom: 1px solid #eee;'><b>1036.0 unidades</b></td>
+            <td style='padding: 10px; border-bottom: 1px solid #eee;'><b>984.4 unidades</b></td>
         </tr>
         <tr>
             <td style='padding: 10px; border-bottom: 1px solid #eee;'>Containers no Barco</td>
